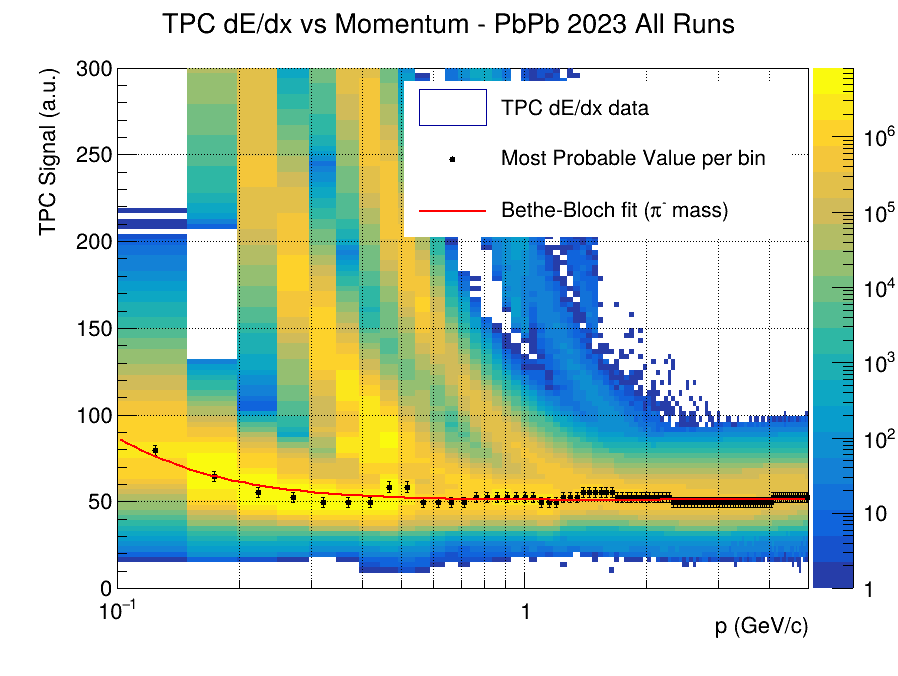
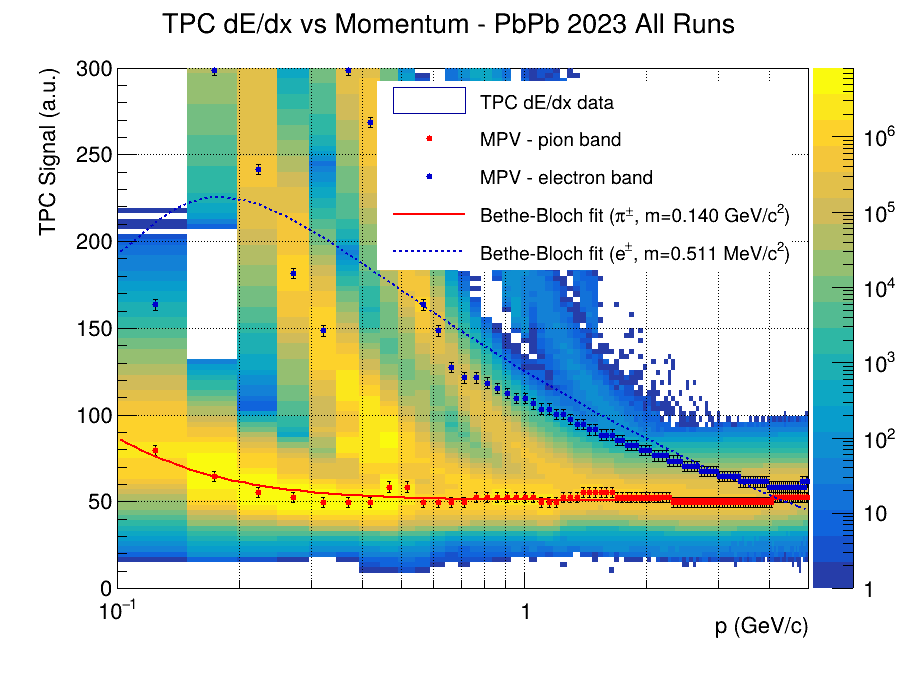
Add separate Bethe-Bloch fits for pion and electron bands
- Extract MPV separately: global max for pions, threshold-based for electrons
- Red curve: pion Bethe-Bloch fit (m=0.13957 GeV/c^2)
- Blue dashed curve: electron Bethe-Bloch fit (m=0.000511 GeV/c^2)
- Electron band clearly sits above pion band — visible separation

diff --git a/macros/fitBetheBloch.C b/macros/fitBetheBloch.C
@@ -2,40 +2,37 @@
  * File: fitBetheBloch.C
  * Author: Madhva Fakare
  *
- * Fits the empirical Bethe-Bloch formula to the pion band
- * in the TPC dE/dx vs momentum plot.
+ * Fits the empirical Bethe-Bloch formula to both the pion and
+ * electron bands in the TPC dE/dx vs momentum plot.
  *
  * Method:
  *   1. Slice the 2D dE/dx histogram into momentum bins
- *   2. Find the most probable value (MPV) in each slice
- *   3. Fit the Bethe-Bloch curve through the MPV points
+ *   2. Extract MPV for pions (global max) and electrons (max above threshold)
+ *   3. Fit Bethe-Bloch curves separately for each species
  *
  * Bethe-Bloch empirical formula (ALICE convention):
  *   f(bg) = P1/beta^P4 * (P2 - beta^P4 - ln(P3 + 1/(bg)^P5))
  *   where bg = betagamma = p/mass
  *
+ * Particle masses (GeV/c^2):
+ *   Pion:     0.13957
+ *   Electron: 0.000511
+ *
  * Run with:
  *   root -l -q macros/fitBetheBloch.C
  */
 
-/* Bethe-Bloch function for ROOT TF1
- * x[0] = momentum p (GeV/c)
- * par[0..4] = P1..P5
- * par[5] = particle mass (GeV/c^2) */
 Double_t BetheBloch(Double_t* x, Double_t* par) {
     Double_t p    = x[0];
     Double_t mass = par[5];
-    Double_t bg   = p / mass;               // betagamma
-    Double_t beta = bg / TMath::Sqrt(1.0 + bg*bg);  // beta = v/c
-
+    Double_t bg   = p / mass;
+    Double_t beta = bg / TMath::Sqrt(1.0 + bg*bg);
     if (beta <= 0 || beta >= 1) return 0;
-
     Double_t P1 = par[0];
     Double_t P2 = par[1];
     Double_t P3 = par[2];
     Double_t P4 = par[3];
     Double_t P5 = par[4];
-
     return (P1 / TMath::Power(beta, P4)) *
            (P2 - TMath::Power(beta, P4) -
             TMath::Log(P3 + TMath::Power(1.0/bg, P5)));
@@ -47,7 +44,6 @@ void fitBetheBloch() {
     gStyle->SetOptFit(0);
     gStyle->SetPalette(kBird);
 
-    /* Load all runs into 2D histogram */
     TH2F* hDeDx = new TH2F("hDeDx",
         "TPC dE/dx vs Momentum - PbPb 2023 All Runs;"
         "p (GeV/c);TPC Signal (a.u.)",
@@ -95,66 +91,93 @@ void fitBetheBloch() {
 
     cout << "Total entries: " << hDeDx->GetEntries() << endl;
 
-    /* Step 1: Extract MPV per momentum bin */
-    /* MPV = most probable value = peak of dE/dx in each momentum slice */
+    /* Extract MPV separately for pions and electrons */
     int nBins = hDeDx->GetNbinsX();
-    vector<Double_t> pVec, dedxVec, errVec;
+    vector<Double_t> pVec_pi, dedxVec_pi, errVec_pi;
+    vector<Double_t> pVec_e,  dedxVec_e,  errVec_e;
 
     for (int i = 1; i <= nBins; i++) {
-        /* Get 1D projection of this momentum slice */
         TH1D* slice = hDeDx->ProjectionY("slice", i, i);
-
         if (slice->GetEntries() < 100) { delete slice; continue; }
 
-        /* Find the bin with maximum content = MPV */
-        int maxBin = slice->GetMaximumBin();
-        Double_t mpv = slice->GetBinCenter(maxBin);
-        Double_t p   = hDeDx->GetXaxis()->GetBinCenter(i);
+        Double_t p = hDeDx->GetXaxis()->GetBinCenter(i);
 
-        /* Error estimate from bin width */
-        Double_t err = slice->GetBinWidth(maxBin);
+        /* Pion MPV — global maximum of the slice */
+        int maxBin_pi = slice->GetMaximumBin();
+        Double_t mpv_pi = slice->GetBinCenter(maxBin_pi);
+        pVec_pi.push_back(p);
+        dedxVec_pi.push_back(mpv_pi);
+        errVec_pi.push_back(slice->GetBinWidth(maxBin_pi));
 
-        pVec.push_back(p);
-        dedxVec.push_back(mpv);
-        errVec.push_back(err);
+        /* Electron MPV — maximum above a momentum-dependent threshold
+         * Electrons at low momentum have much higher dE/dx than pions
+         * The threshold separates the two bands:
+         *   at p=0.1 GeV/c: threshold ~ 170 a.u.
+         *   at p=1.0 GeV/c: threshold ~ 60 a.u. (bands converge)  */
+        Double_t threshold = 120.0 * TMath::Exp(-p * 0.8) + 55.0;
+        int threshBin = slice->FindBin(threshold);
+        int maxBin_e  = threshBin;
+        Double_t maxContent = 0;
+        for (int b = threshBin; b <= slice->GetNbinsX(); b++) {
+            if (slice->GetBinContent(b) > maxContent) {
+                maxContent = slice->GetBinContent(b);
+                maxBin_e   = b;
+            }
+        }
+
+        /* Only store if a meaningful peak was found */
+        if (maxContent > 10) {
+            pVec_e.push_back(p);
+            dedxVec_e.push_back(slice->GetBinCenter(maxBin_e));
+            errVec_e.push_back(slice->GetBinWidth(maxBin_e));
+        }
 
         delete slice;
     }
 
-    cout << "MPV points extracted: " << pVec.size() << endl;
+    cout << "Pion MPV points:    " << pVec_pi.size() << endl;
+    cout << "Electron MPV points:" << pVec_e.size()  << endl;
 
-    /* Create TGraphErrors from MPV points */
-    TGraphErrors* gMPV = new TGraphErrors(
-        pVec.size(),
-        pVec.data(),
-        dedxVec.data(),
-        nullptr,
-        errVec.data());
+    /* TGraphErrors for pions */
+    TGraphErrors* gMPV_pi = new TGraphErrors(
+        pVec_pi.size(), pVec_pi.data(), dedxVec_pi.data(),
+        nullptr, errVec_pi.data());
+    gMPV_pi->SetMarkerStyle(20);
+    gMPV_pi->SetMarkerSize(0.8);
+    gMPV_pi->SetMarkerColor(kRed);
 
-    gMPV->SetMarkerStyle(20);
-    gMPV->SetMarkerSize(0.8);
-    gMPV->SetMarkerColor(kBlack);
-    gMPV->SetLineColor(kBlack);
+    /* TGraphErrors for electrons */
+    TGraphErrors* gMPV_e = new TGraphErrors(
+        pVec_e.size(), pVec_e.data(), dedxVec_e.data(),
+        nullptr, errVec_e.data());
+    gMPV_e->SetMarkerStyle(20);
+    gMPV_e->SetMarkerSize(0.8);
+    gMPV_e->SetMarkerColor(kBlue+1);
 
-    /* Step 2: Fit Bethe-Bloch through MPV points */
-    /* Pion mass = 0.13957 GeV/c^2 */
-    TF1* fitBB = new TF1("fitBB", BetheBloch, 0.1, 5.0, 6);
+    /* Pion Bethe-Bloch fit */
+    TF1* fitBB_pi = new TF1("fitBB_pi", BetheBloch, 0.1, 5.0, 6);
+    fitBB_pi->SetParameters(50.0, 2.5, 1e-3, 2.2, 2.0, 0.13957);
+    fitBB_pi->FixParameter(5, 0.13957);
+    fitBB_pi->SetLineColor(kRed);
+    fitBB_pi->SetLineWidth(2);
+    gMPV_pi->Fit(fitBB_pi, "R");
 
-    /* Initial parameters — typical ALICE values for pions */
-    fitBB->SetParameters(50.0, 2.5, 1e-3, 2.2, 2.0, 0.13957);
-    fitBB->FixParameter(5, 0.13957);  /* fix pion mass */
-    fitBB->SetParName(0, "P1");
-    fitBB->SetParName(1, "P2");
-    fitBB->SetParName(2, "P3");
-    fitBB->SetParName(3, "P4");
-    fitBB->SetParName(4, "P5");
-    fitBB->SetParName(5, "mass");
-    fitBB->SetLineColor(kRed);
-    fitBB->SetLineWidth(2);
+    /* Electron Bethe-Bloch fit — start from pion parameters */
+    TF1* fitBB_e = new TF1("fitBB_e", BetheBloch, 0.1, 5.0, 6);
+    fitBB_e->SetParameters(
+        fitBB_pi->GetParameter(0),
+        fitBB_pi->GetParameter(1),
+        fitBB_pi->GetParameter(2),
+        fitBB_pi->GetParameter(3),
+        fitBB_pi->GetParameter(4),
+        0.000511);
+    fitBB_e->FixParameter(5, 0.000511);
+    fitBB_e->SetLineColor(kBlue+1);
+    fitBB_e->SetLineWidth(2);
+    fitBB_e->SetLineStyle(2);
+    gMPV_e->Fit(fitBB_e, "R");
 
-    gMPV->Fit(fitBB, "R");
-
-    /* Draw everything */
+    /* Draw */
     TCanvas* c1 = new TCanvas("c1", "Bethe-Bloch Fit - PbPb 2023", 900, 700);
     c1->SetLogx();
     c1->SetLogz();
@@ -163,20 +186,27 @@ void fitBetheBloch() {
     c1->SetBottomMargin(0.13);
 
     hDeDx->Draw("COLZ");
-    gMPV->Draw("P same");
-    fitBB->Draw("same");
+    gMPV_pi->Draw("P same");
+    gMPV_e->Draw("P same");
+    fitBB_pi->Draw("same");
+    fitBB_e->Draw("same");
 
-    /* Legend */
-    TLegend* leg = new TLegend(0.45, 0.65, 0.88, 0.88);
+    TLegend* leg = new TLegend(0.42, 0.60, 0.88, 0.88);
     leg->SetBorderSize(0);
-    leg->AddEntry(hDeDx, "TPC dE/dx data", "f");
-    leg->AddEntry(gMPV, "Most Probable Value per bin", "p");
-    leg->AddEntry(fitBB, "Bethe-Bloch fit (#pi^{-} mass)", "l");
+    leg->AddEntry(hDeDx,    "TPC dE/dx data", "f");
+    leg->AddEntry(gMPV_pi,  "MPV - pion band", "p");
+    leg->AddEntry(gMPV_e,   "MPV - electron band", "p");
+    leg->AddEntry(fitBB_pi, "Bethe-Bloch fit (#pi^{#pm}, m=0.140 GeV/c^{2})", "l");
+    leg->AddEntry(fitBB_e,  "Bethe-Bloch fit (e^{#pm}, m=0.511 MeV/c^{2})", "l");
     leg->Draw();
 
-    cout << "\n=== Bethe-Bloch Fit Parameters ===" << endl;
+    cout << "\n=== Pion Bethe-Bloch Fit ===" << endl;
     for (int i = 0; i < 5; i++)
-        cout << "P" << i+1 << " = " << fitBB->GetParameter(i) << endl;
+        cout << "P" << i+1 << " = " << fitBB_pi->GetParameter(i) << endl;
+
+    cout << "\n=== Electron Bethe-Bloch Fit ===" << endl;
+    for (int i = 0; i < 5; i++)
+        cout << "P" << i+1 << " = " << fitBB_e->GetParameter(i) << endl;
 
     c1->Update();
     c1->SaveAs("plots/bethebloch_fit.png");
